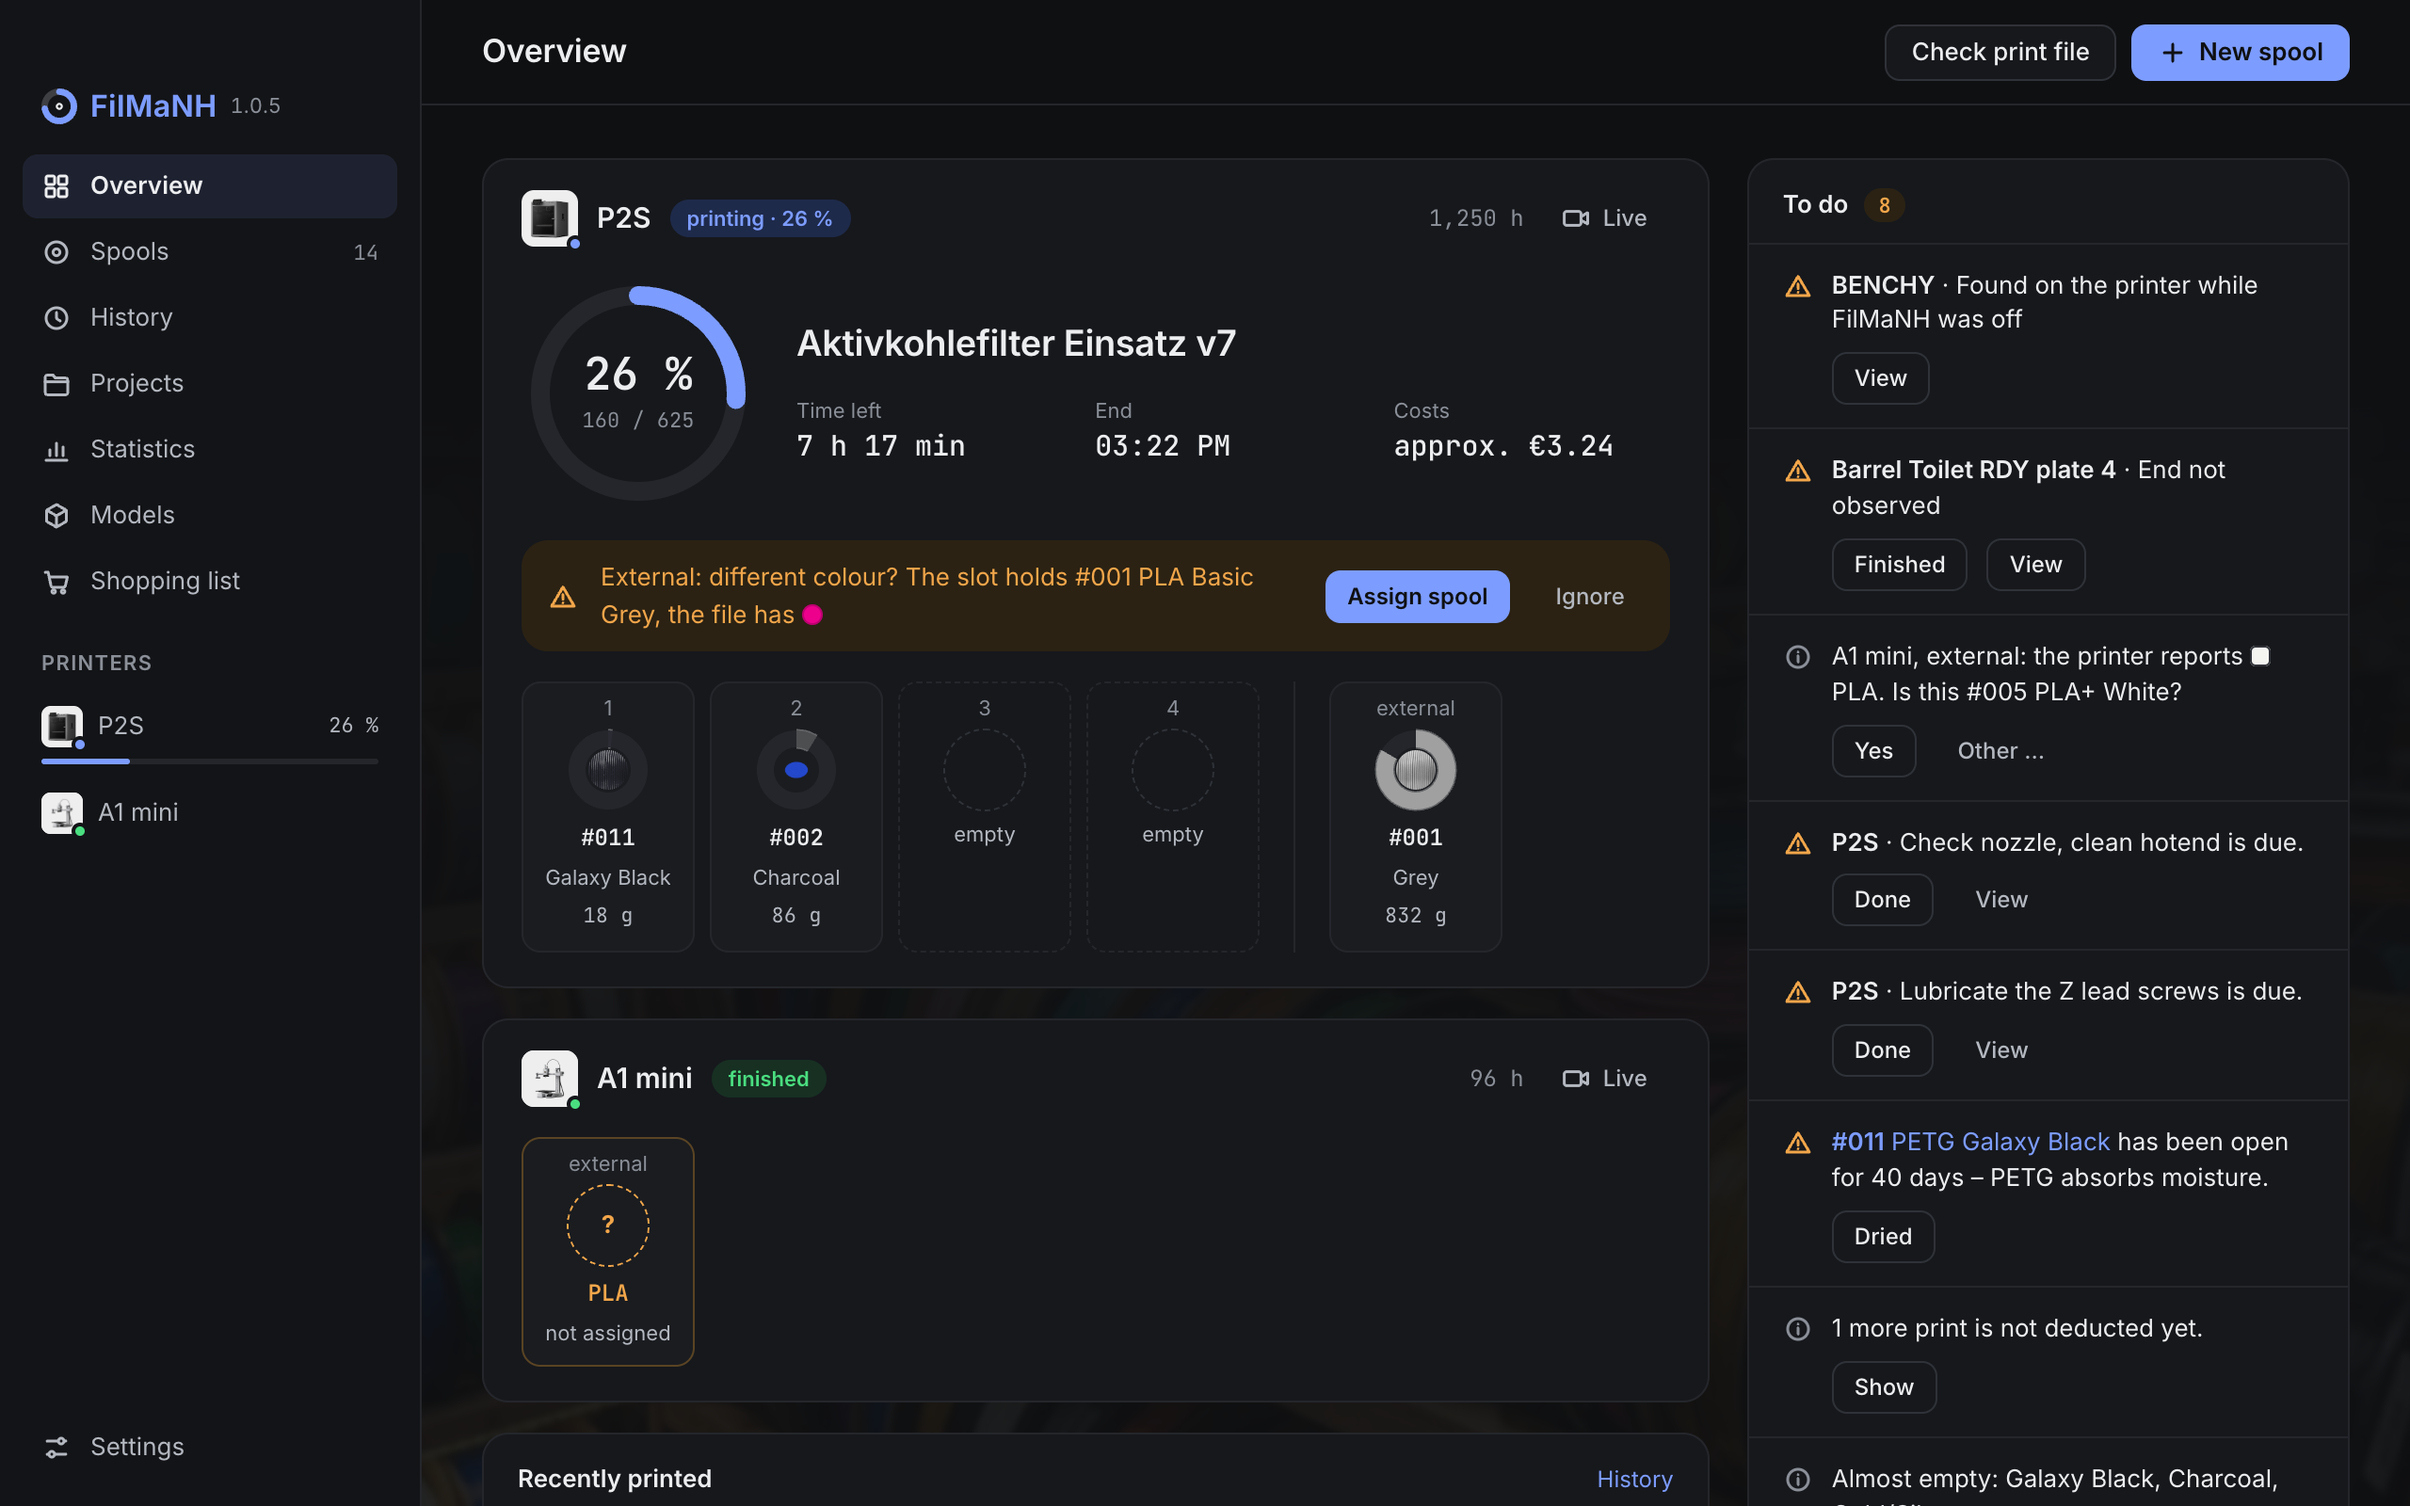
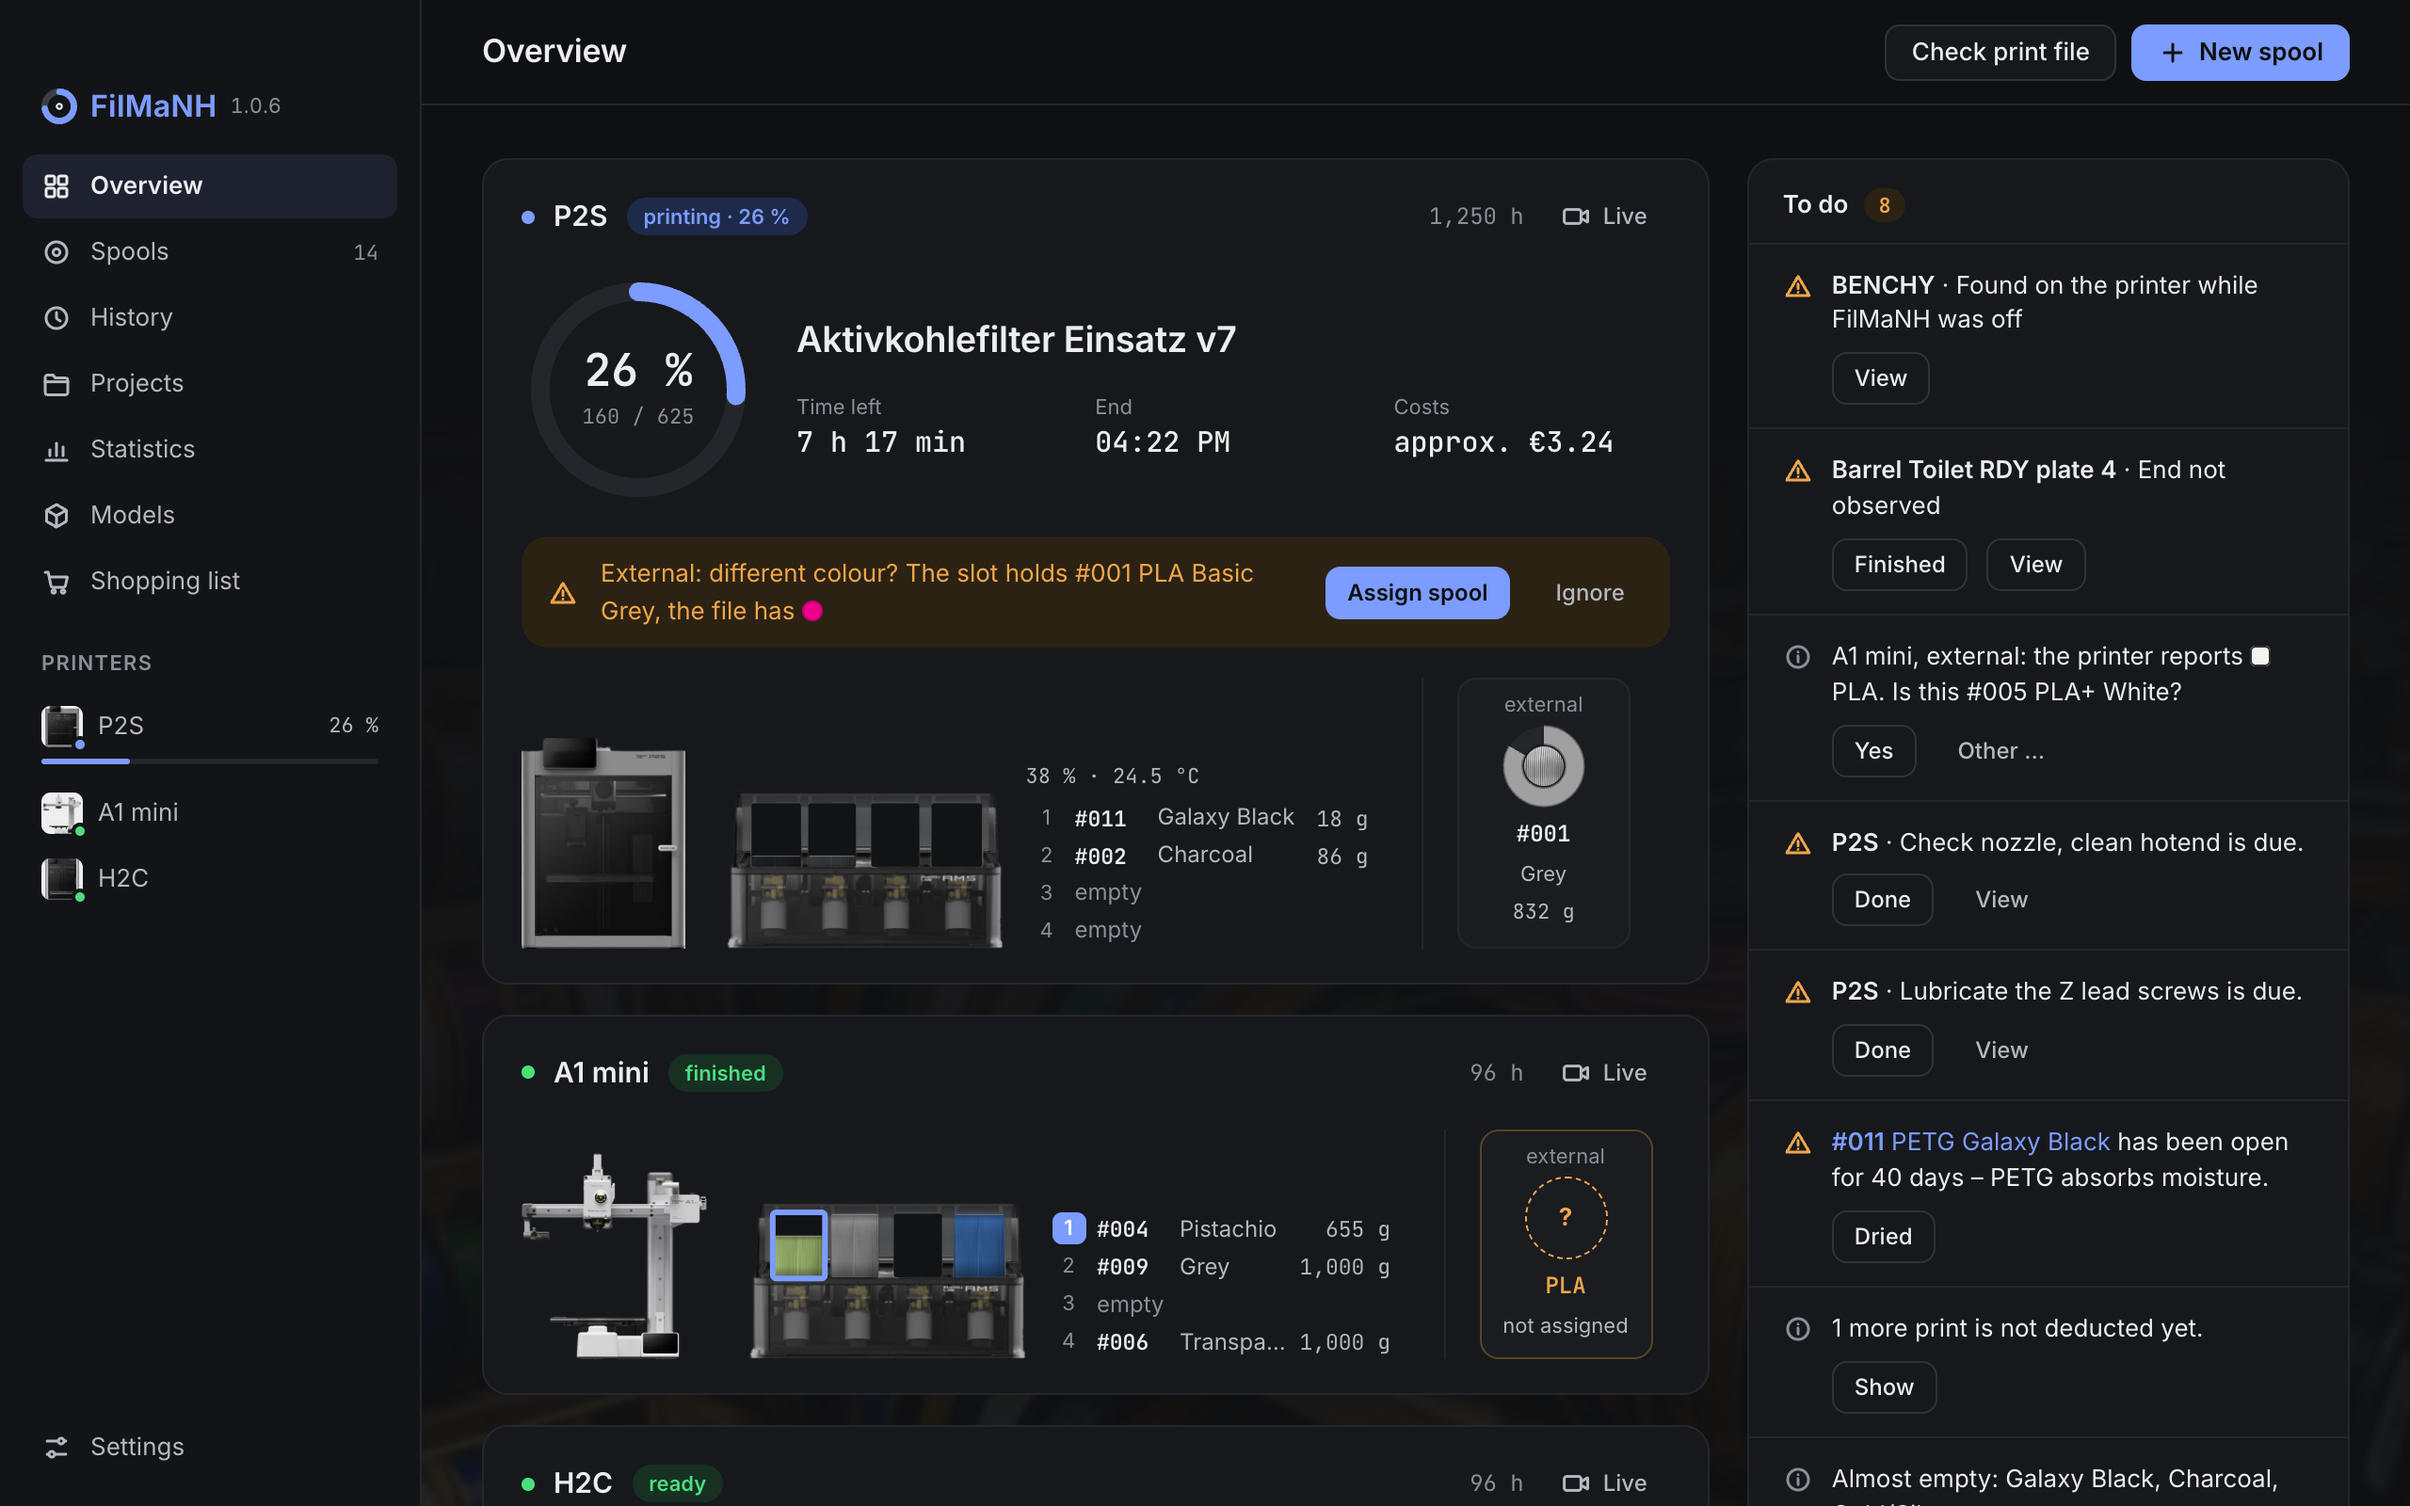
Handbuch für Version 1.0.6

diff --git a/handbuch/README.md b/handbuch/README.md
@@ -88,8 +88,8 @@ Die Einrichtung lässt sich mit **Später einrichten** überspringen und unter E
 ![Übersicht](bilder/01-uebersicht.png)
 
 - **Drucker** links, druckende zuerst: beim laufenden Druck Fortschritt mit Schicht, Restzeit, Ende und geschätzte
-  Kosten; Hinweise zu diesem Druck (falsches Material, Spule reicht nicht) direkt darunter. Die Slots zeigen je Spule
-  Nummer, Farbe und Rest: je AMS die Slots 1–4 (bei mehreren AMS mit Überschrift), abgesetzt die externe Spule. Ein
+  Kosten; Hinweise zu diesem Druck (falsches Material, Spule reicht nicht) direkt darunter. Dann Drucker und AMS als Bild: jede Spule in ihrer Farbe, die Höhe zeigt den Füllstand, der geladene Slot ist
+  markiert; daneben je Slot Nummer, Farbe und Rest, dazu Feuchte und Temperatur des AMS. Abgesetzt die externe Spule. Ein
   Klick auf den Drucker öffnet ihn.
   Rechts im Kopf der Karte: die Druckstunden gesamt.
 - **Zuletzt gedruckt** mit Menge und Kosten.
@@ -224,8 +224,9 @@ Beim Druckstart prüft FilMaNH:
 
 ![AMS](bilder/11-drucker-ams.png)
 
-Weiter unten: das AMS mit Slots, Feuchte und Temperatur, der Feuchteverlauf der letzten 7 Tage und die externe
-Spule. H2D und H2C haben zwei externe Halter (links und rechts); ein leerer, nicht zugeordneter wird nicht gezeigt. Eine Spule aus **Spulen im Regal** auf einen Slot ziehen ordnet sie zu. Darunter stehen alle Drucke dieses
+Weiter unten: Drucker und AMS als Bild, je Slot die Spule in ihrer Farbe (Höhe = Füllstand), darunter Nummer, Name
+und Rest. Feuchte und Temperatur stehen auf dem AMS, beim AMS HT in seiner Anzeige; eine laufende Trocknung mit
+Restzeit darüber. Danach der Feuchteverlauf der letzten 7 Tage und die externe Spule. H2D und H2C haben zwei externe Halter (links und rechts); ein leerer, nicht zugeordneter wird nicht gezeigt. Eine Spule aus **Spulen im Regal** auf einen Slot ziehen ordnet sie zu. Darunter stehen alle Drucke dieses
 Druckers. **Einrichtung** oben rechts führt zu den Druckereinstellungen.
 
 **Live** oben rechts zeigt das Kamerabild, solange die Seite offen ist; in der Übersicht öffnet **Live** an der

diff --git a/handbook/README.md b/handbook/README.md
@@ -87,9 +87,9 @@ Finally, FilMaNH asks for the **electricity price** per kWh (for the electricity
 ![Overview](images/01-uebersicht.png)
 
 - **Printers** on the left, printing ones first: for the current print the progress with layer, time left, end and
-  estimated cost; notices about this print (wrong material, spool won’t last) right below. The slots show number,
-  colour and remaining amount of each spool: slots 1–4 per AMS (with a heading when there are several), the external
-  spool set apart. Click a printer to open it.
+  estimated cost; notices about this print (wrong material, spool won’t last) right below. Then the printer and each AMS as a picture: every spool in its colour, the height shows how full it is, the loaded
+  slot is marked; beside it number, colour and remaining amount per slot, plus the AMS humidity and temperature. The
+  external spool set apart. Click a printer to open it.
   Top right of the card: total print hours.
 - **Recently printed** with amount and cost.
 - **To do** on the right: everything that needs your attention – a print whose end is unknown, slots that don’t match
@@ -224,7 +224,9 @@ When a print starts, FilMaNH checks:
 
 ![AMS](images/11-drucker-ams.png)
 
-Further down: the AMS with its slots, humidity and temperature, the humidity of the last 7 days and the external
+Further down: the printer and each AMS as a picture, every slot with its spool in its colour (height = fill level),
+below it number, name and remaining amount. Humidity and temperature are shown on the AMS, on the AMS HT in its
+display; a running drying cycle with its time left above. Then the humidity of the last 7 days and the external
 spool. H2D and H2C have two external holders (left and right); an empty one without an assigned spool is not shown. Drag a spool from **Spools on the shelf** onto a slot to assign it. Below are all prints of this printer.
 **Setup** at the top right opens the printer settings.
 
